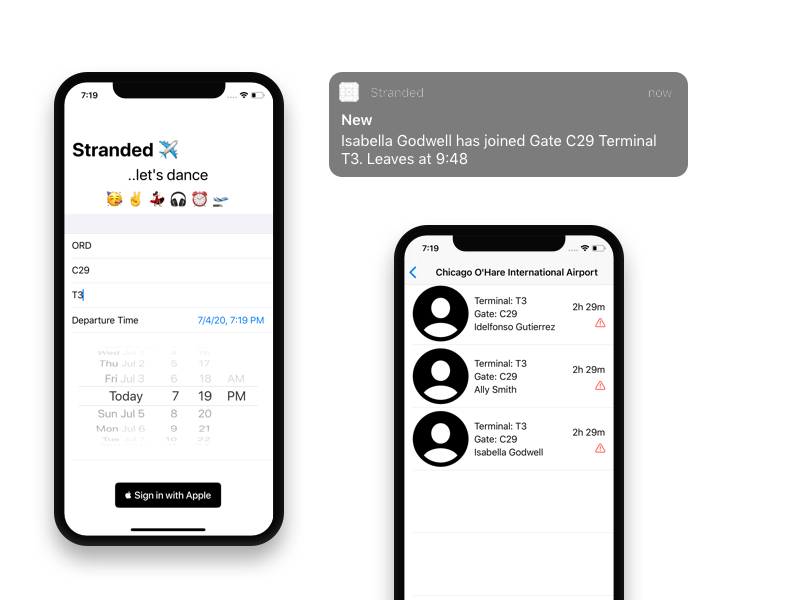
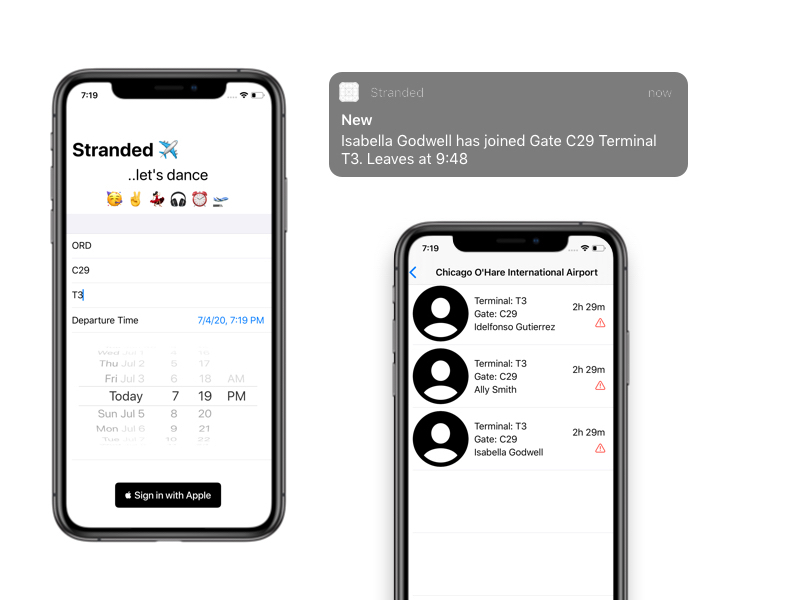
create the redshift project

Changed region(s): [[0.0625, 0.09, 0.375, 0.96], [0.4688, 0.36, 0.8125, 1.0]]

diff --git a/README.md b/README.md
@@ -47,7 +47,7 @@ YES! It's something we get excited for and even further when we meet, travel or 
 #### _The Solution:_
 Stranded 🙂 brings people together at international places (airports) in different time zones! Allowing them to discover something new and exciting... and possibly a new friend.
 
-![](img/stranded.jpg)
+![](img/stranded-3.jpg)
 
 tech: Combine, SwiftUI, APNS, database
 
@@ -130,6 +130,26 @@ Think about Virtual Tourist before Instagram search feature using Flicker
 ---
 
 # Databases
+
+## Non-Columnar Storage, DIST Style, DIST Keys 🔑 and AWS REDSHIFT
+
+### _There is an overcrossing between Infra DevOps and Data Engineers_
+
+For this project I utilize AWS web services like `redshift`, `s3 storage buckets`, `user roles`, `policies`, and `cloud watch`
+
+The idea is how can we prepare data to be use by _Business Intellegince_ applications like Tableu, S4 MIM, or even Jupyternotebook! 👍
+In order to help the business see an overview of the data in a diagram of what important features of the product their customers might be using. Mainly, how can we improve the performance of this OLAP and OLTP transactions.
+
+For that, we use the combination of star schema tables, we build an strategy for a distributed data system, and do grouping for all the features thanks to REDSHIFT.
+
+![](img/dwdiagram.png)
+
+[Github]()
+
+**tech:** AWS services*, Python, Jupyter
+
+---
+
 ## Creating an ETL process with Apache Cassandra
 
 ### _Handling BIG DATA and storage now a days is no just feasible, it's a must._
